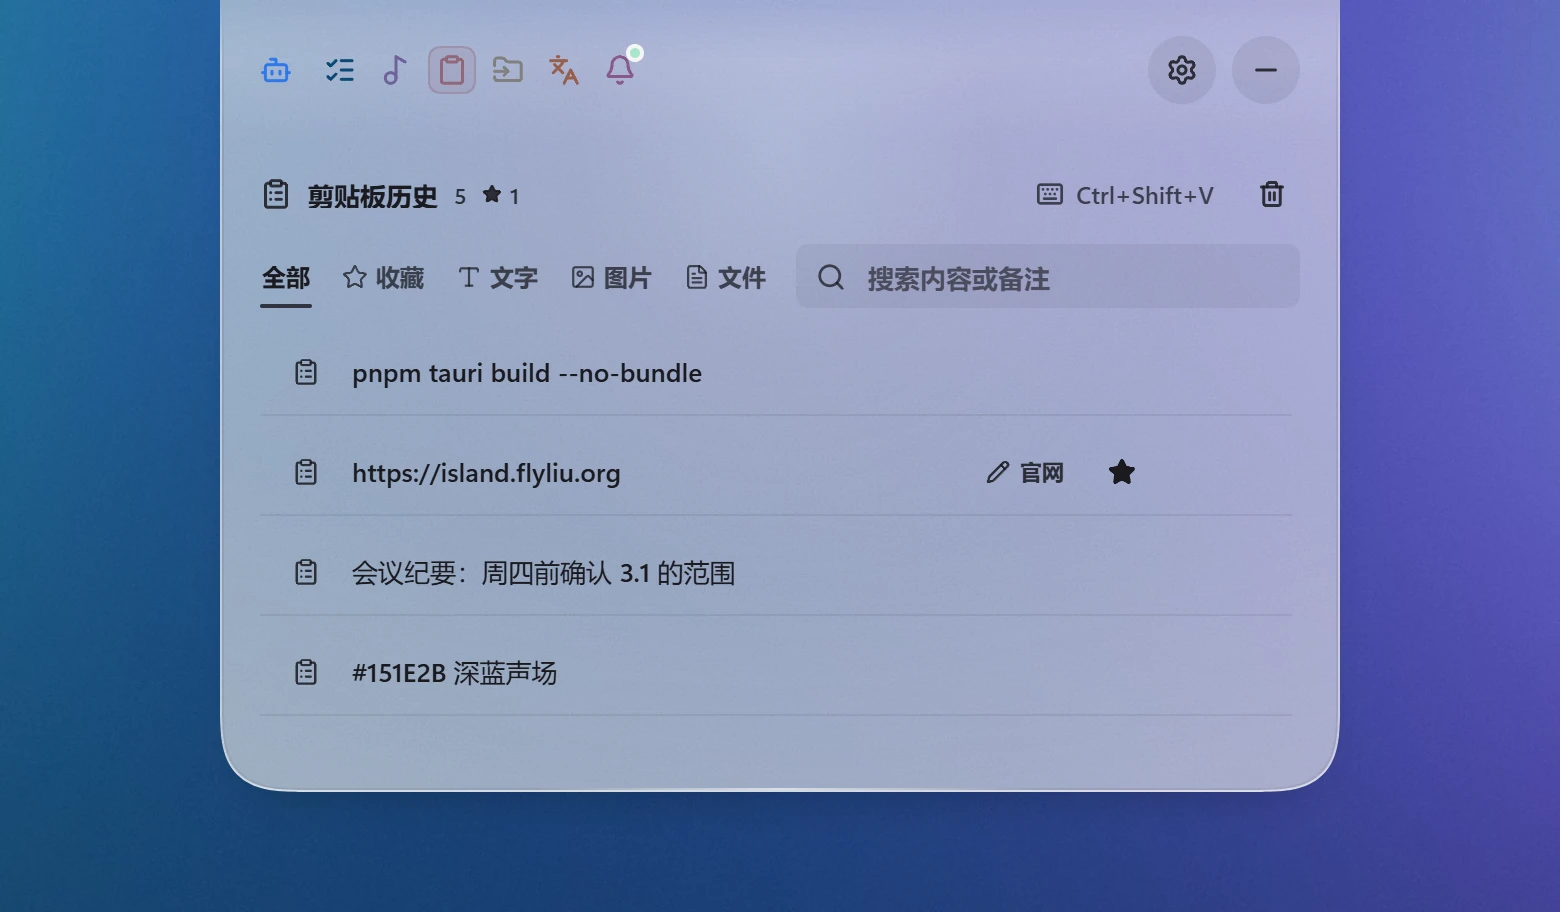
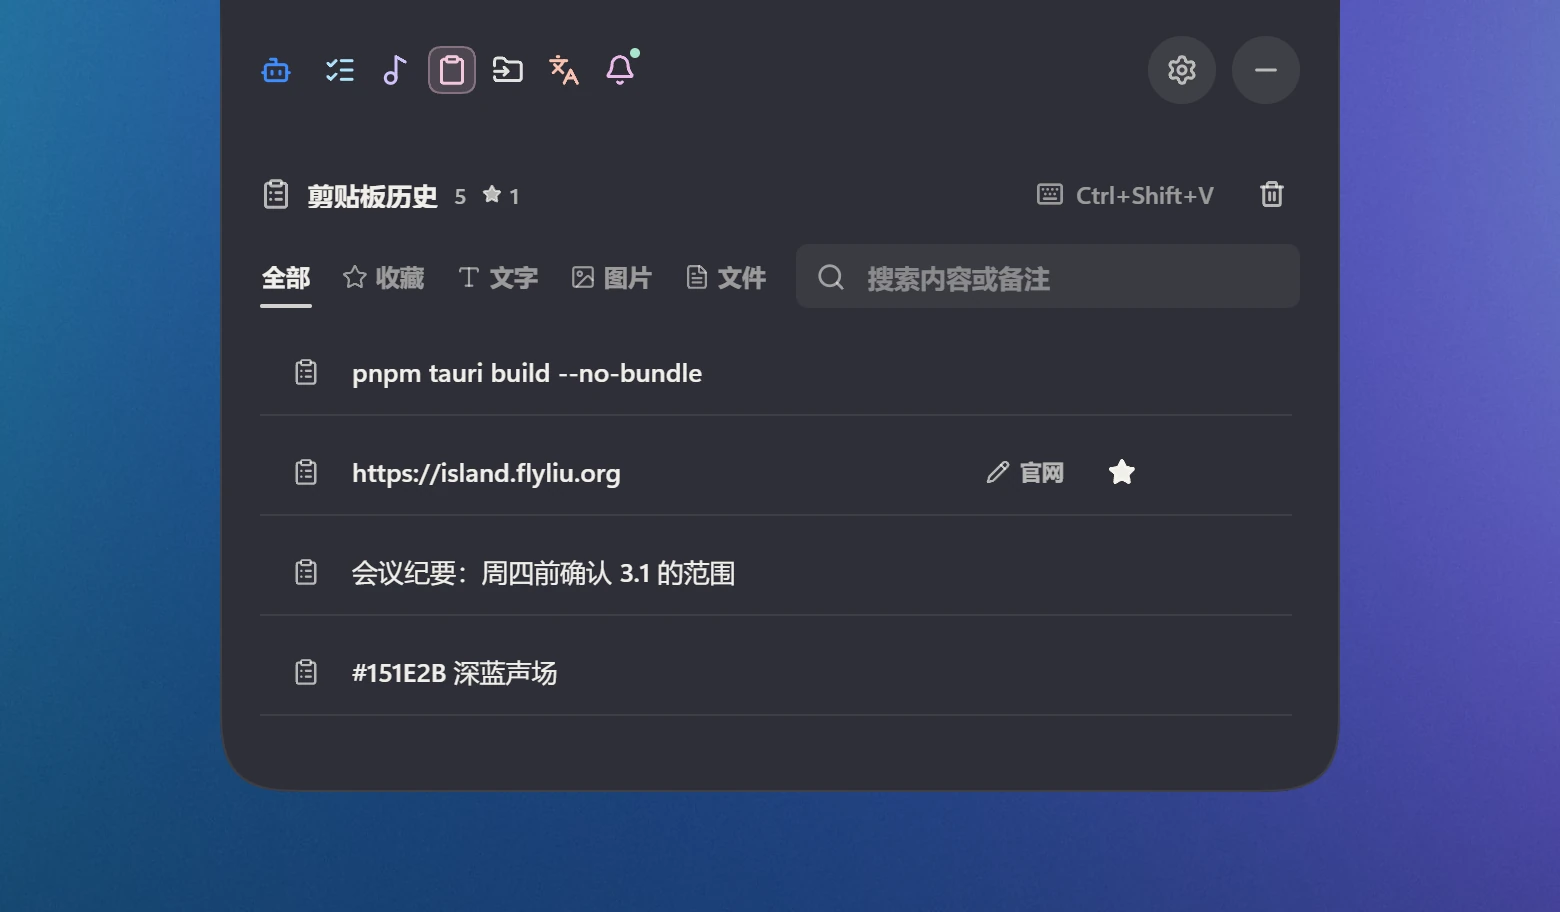
docs(readme): 截图统一经典深色，换个样子改为六种外观
功能截图都用经典深色；音乐换成晴天 · 周杰伦（不显示歌词）；AI 一节显示 Claude、Codex、DSH、WorkBuddy 四个额度环；
换个样子改成三种质感各配深浅两色，每张是不同的界面。

diff --git a/README.en.md b/README.en.md
@@ -52,9 +52,9 @@ The iPhone's Dynamic Island gathers notifications, timers and media controls int
 
 ## Most of the time, it's tiny
 
-When you're not using it, it's just a small pill at the top of the screen showing the current lyric, unread messages and how many AI agents are working.
+When you're not using it, it's just a small pill at the top of the screen showing the song that's playing, unread messages and how many AI agents are working.
 
-<p align="center"><img src="docs/assets/screenshots/collapsed.webp" alt="The collapsed island showing a lyric, unread count and agent count" width="560"><br><sub>Liquid Glass · collapsed</sub></p>
+<p align="center"><img src="docs/assets/screenshots/collapsed.webp" alt="The collapsed island showing the current song, unread count and agent count" width="560"></p>
 
 Hover over it and it expands into the views below.
 
@@ -62,53 +62,53 @@ Hover over it and it expands into the views below.
 
 New messages pop up on the island: who sent it and what they said, at a glance. Long messages make the island grow so you can read them in place. Muted group chats only alert you when someone @mentions you.
 
-<p align="center"><img src="docs/assets/screenshots/messages.webp" alt="WeChat messages on the island" width="620"><br><sub>Liquid Glass · dark</sub></p>
+<p align="center"><img src="docs/assets/screenshots/messages.webp" alt="WeChat messages on the island" width="620"></p>
 
 ## Stop babysitting your AI coding tools
 
 Every Claude Code and Codex session shows up on the island: which one is running, which one is done, which one is waiting for you. Your remaining Claude / Codex quota is there too.
 
-<p align="center"><img src="docs/assets/screenshots/agents.webp" alt="AI agent sessions and quota rings on the island" width="620"><br><sub>Classic · dark</sub></p>
+<p align="center"><img src="docs/assets/screenshots/agents.webp" alt="AI agent sessions and quota rings on the island" width="620"></p>
 
 When an agent wants to run a command or edit a file, click Allow or Deny right on the island.
 
-<p align="center"><img src="docs/assets/screenshots/approval.webp" alt="Approving a Claude Code command on the island" width="620"><br><sub>Frosted Glass · dark</sub></p>
+<p align="center"><img src="docs/assets/screenshots/approval.webp" alt="Approving a Claude Code command on the island" width="620"></p>
 
 ## Music and lyrics
 
 Control whatever player you're using: artwork, progress, skip, plus synced lyrics. The current line stays visible even when the island is collapsed.
 
-<p align="center"><img src="docs/assets/screenshots/music.webp" alt="Music player and lyrics on the island" width="620"><br><sub>Frosted Glass · dark</sub></p>
+<p align="center"><img src="docs/assets/screenshots/music.webp" alt="Music player and lyrics on the island" width="620"></p>
 
 ## Today's to-dos
 
 Jot down a task, tick it off when done. There's also a daily note, a calendar and a task timer.
 
-<p align="center"><img src="docs/assets/screenshots/todo.webp" alt="To-do list on the island" width="620"><br><sub>Classic · light</sub></p>
+<p align="center"><img src="docs/assets/screenshots/todo.webp" alt="To-do list on the island" width="620"></p>
 
 ## Everything you copied, still there
 
 Text, images and files you copy are kept in a history you can search and star. Click one to copy it again. Shortcut: `Ctrl+Shift+V`.
 
-<p align="center"><img src="docs/assets/screenshots/clipboard.webp" alt="Clipboard history on the island" width="620"><br><sub>Liquid Glass · light</sub></p>
+<p align="center"><img src="docs/assets/screenshots/clipboard.webp" alt="Clipboard history on the island" width="620"></p>
 
 ## A shelf for dragging files
 
 Drop files on the island, switch windows, then drag them out where you need them. Handy for moving files between two apps.
 
-<p align="center"><img src="docs/assets/screenshots/shelf.webp" alt="File shelf on the island" width="620"><br><sub>Liquid Glass · dark</sub></p>
+<p align="center"><img src="docs/assets/screenshots/shelf.webp" alt="File shelf on the island" width="620"></p>
 
 ## Quick translation
 
 Press `Ctrl+Shift+F` to translate between Chinese and English automatically. Works out of the box, no sign-up or API key needed.
 
-<p align="center"><img src="docs/assets/screenshots/translation.webp" alt="Quick translation on the island" width="620"><br><sub>Frosted Glass · light</sub></p>
+<p align="center"><img src="docs/assets/screenshots/translation.webp" alt="Quick translation on the island" width="620"></p>
 
 ## Make it yours
 
-Three looks: Classic, Liquid Glass and Frosted Glass (the glass shows what's behind it). Size, color, corners and font are all adjustable, in dark or light mode.
+Three looks: Classic, Liquid Glass and Frosted Glass (the glass shows what's behind it), each in dark and light. Size, color, corners and font are adjustable too.
 
-<p align="center"><img src="docs/assets/screenshots/materials-en.webp" alt="Classic, Liquid Glass and Frosted Glass looks" width="820"></p>
+<p align="center"><img src="docs/assets/screenshots/styles-en.webp" alt="Classic, Liquid Glass and Frosted Glass, each in dark and light" width="860"></p>
 
 ## Barely there
 
